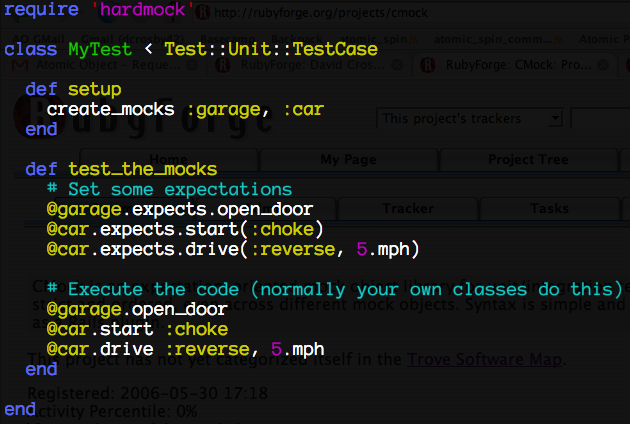
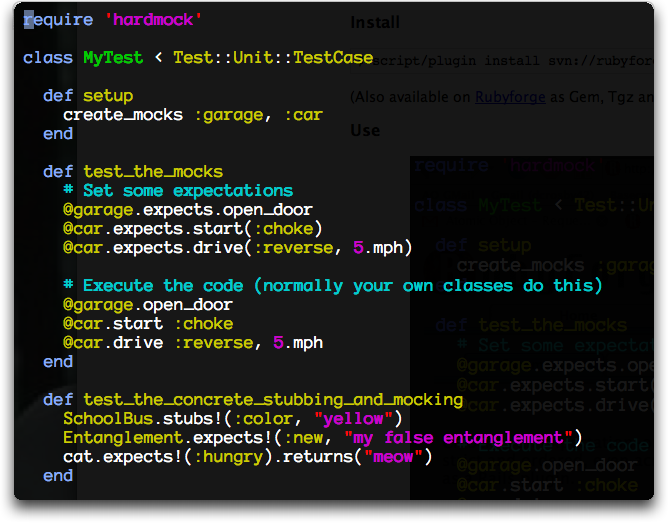
Updated sample code to include concrete stubbing and mocking
git-svn-id: http://hardmock.rubyforge.org/svn/trunk@42 48d1a0da-1ed6-4f58-8415-457aad5d95da

Changed region(s): [[0.0, 0.0, 1.0, 1.0]]

diff --git a/homepage/demo.rb b/homepage/demo.rb
@@ -1,21 +1,27 @@
-require 'hardmock'
+  require 'hardmock'
 
-class MyTest < Test::Unit::TestCase
+  class MyTest < Test::Unit::TestCase
 
-  def setup
-    create_mocks :garage, :car
+    def setup
+      create_mocks :garage, :car
+    end
+
+    def test_the_mocks
+      # Set some expectations
+      @garage.expects.open_door
+      @car.expects.start(:choke)
+      @car.expects.drive(:reverse, 5.mph)
+
+      # Execute the code (normally your own classes do this)
+      @garage.open_door  
+      @car.start :choke
+      @car.drive :reverse, 5.mph
+    end
+
+    def test_the_concrete_stubbing_and_mocking
+      SchoolBus.stubs!(:color, "yellow")
+      Entanglement.expects!(:new, "my false entanglement")
+      cat.expects!(:hungry).returns("meow")
+    end
+
   end
-
-  def test_the_mocks
-    # Set some expectations
-    @garage.expects.open_door
-    @car.expects.start(:choke)
-    @car.expects.drive(:reverse, 5.mph)
-
-    # Execute the code (normally your own classes do this)
-    @garage.open_door  
-    @car.start :choke
-    @car.drive :reverse, 5.mph
-  end
-
-end
